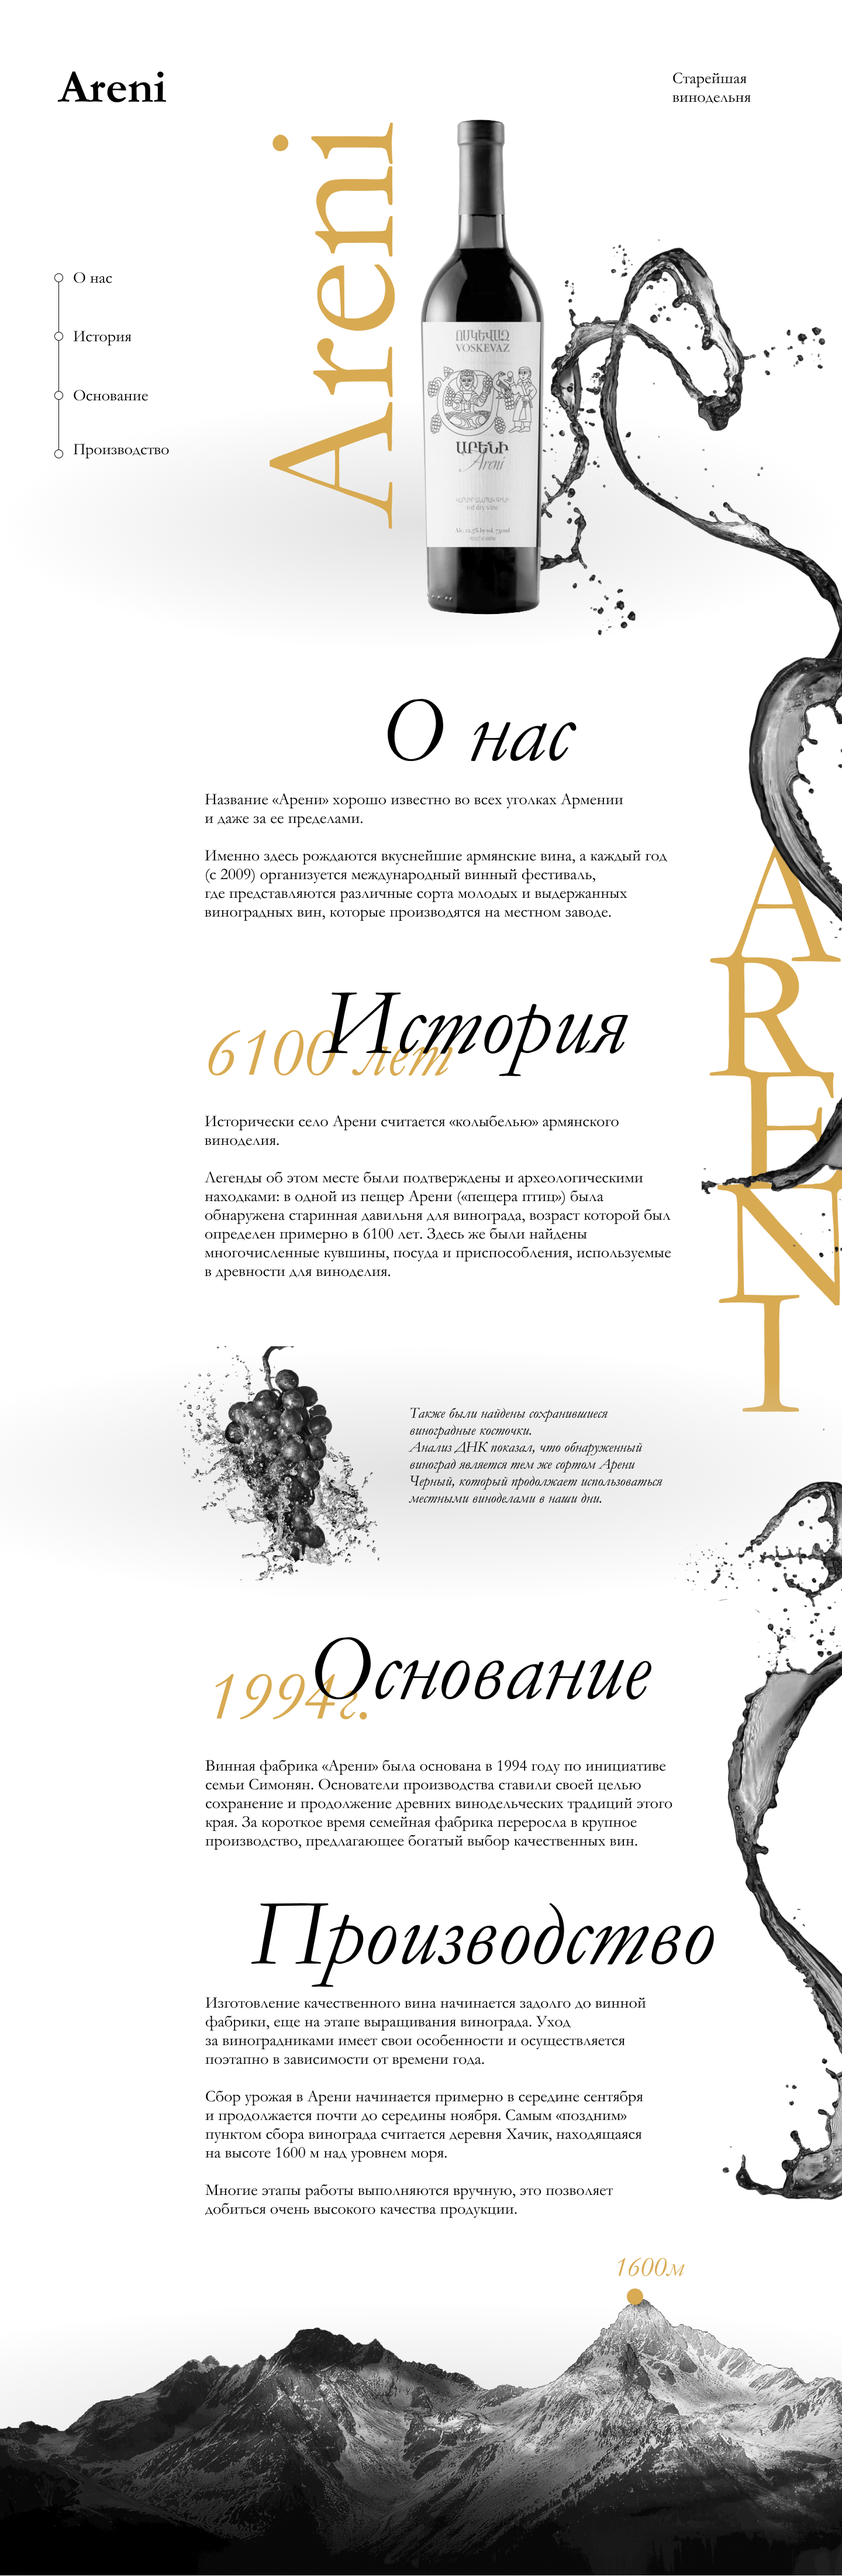
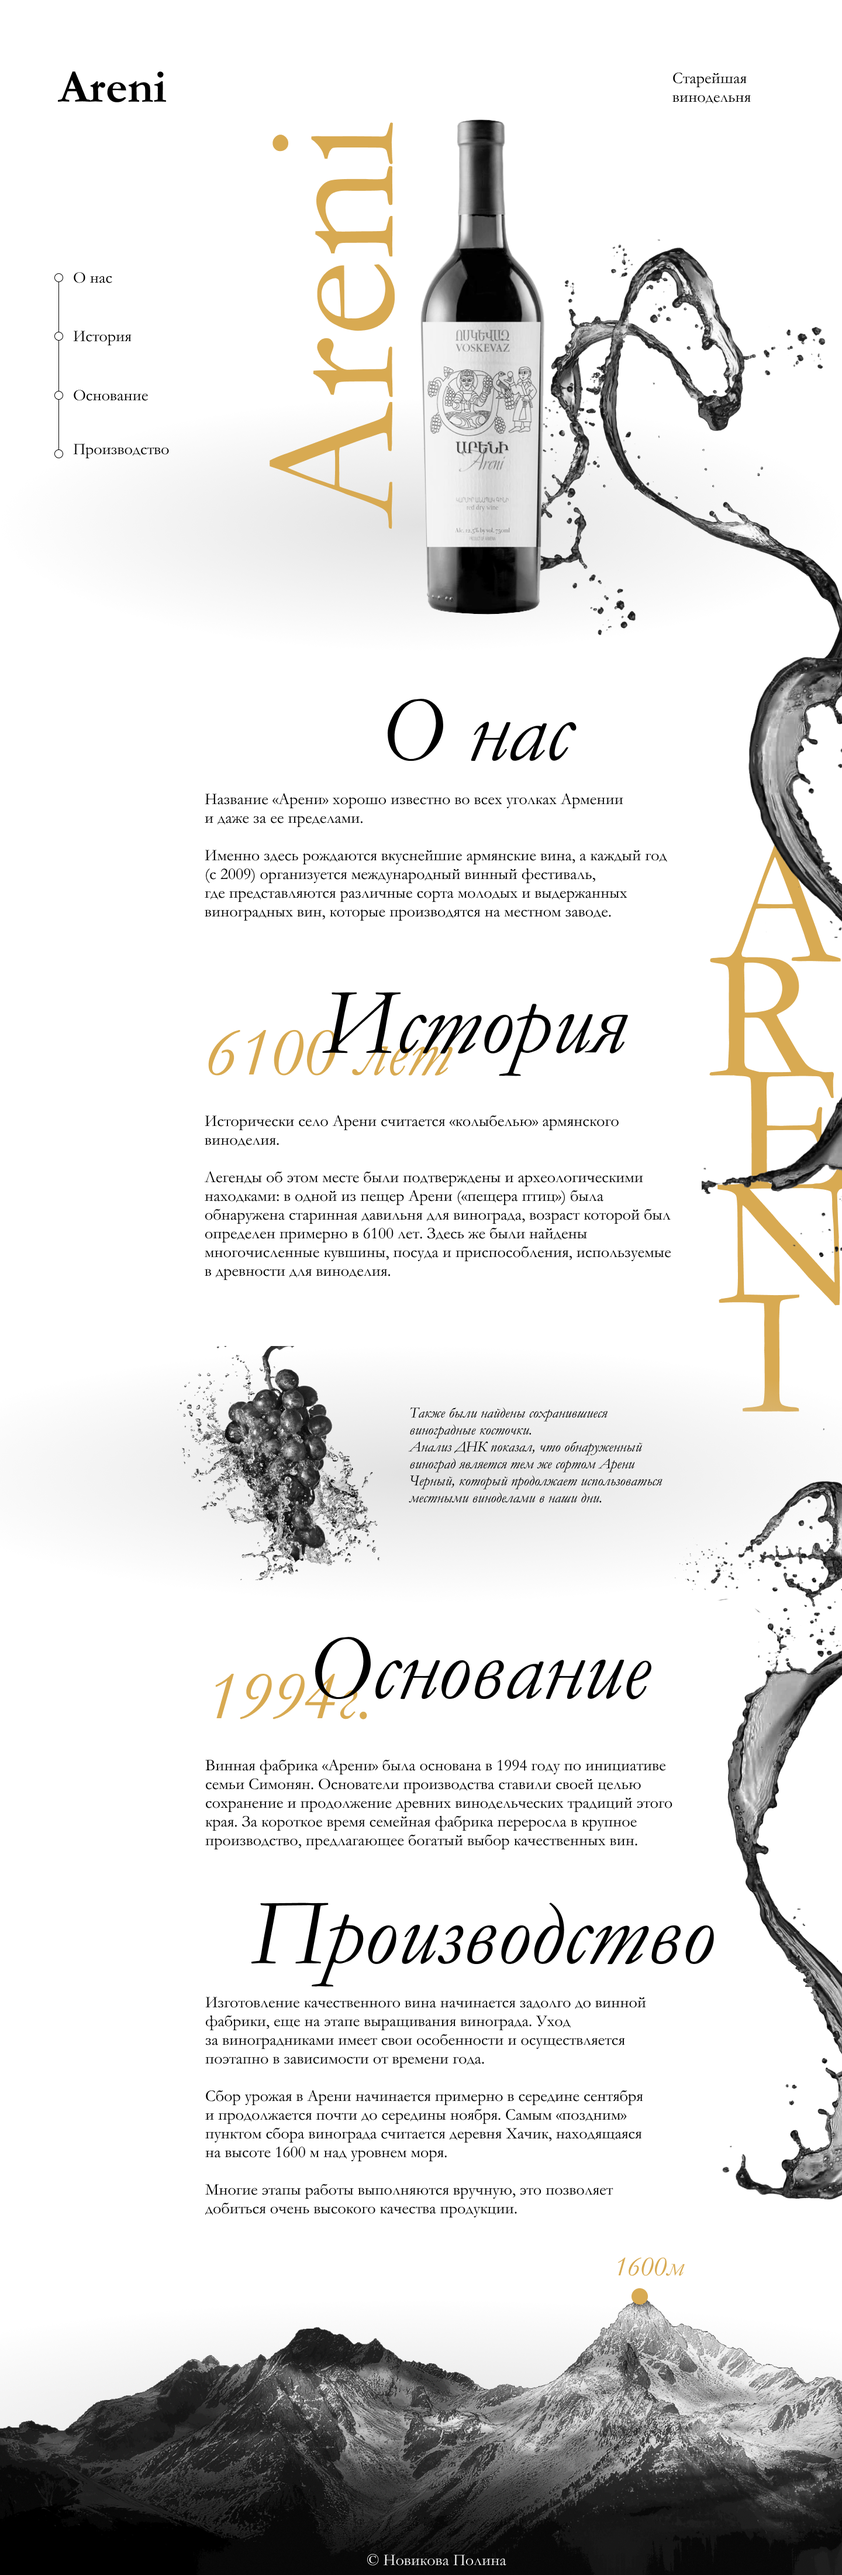
+

diff --git a/Areni.html b/Areni.html
@@ -21,19 +21,18 @@
     <style media="screen">
     body{
       width: 1440px;
-      height: 4388;
+      height: 4400;
       position: relative;
       margin: 0 auto;
     }
     body::before{
-      background: url(img/Areni.png);
+      background: url(img/fon.png);
       position: absolute;
       content: "";
       left: 0;
       top: 0;
       width: 100%;
       height: 100%;
-      opacity: .2;
     }
     </style>
 
@@ -48,12 +47,7 @@
     </div>
 
     <nav class="sidebar">
-      <div class="vl"></div>
-
-      <div class="ellipse1"></div>
-      <div class="ellipse2"></div>
-      <div class="ellipse3"></div>
-      <div class="ellipse4"></div>
+      <img src="img/vl.png" alt="">
 
       <ul class="nav1">
         <li><a href="#s1">О нас</a></li>
@@ -72,6 +66,7 @@
     <p>Именно здесь рождаются вкуснейшие армянские вина, а каждый год<br>(с 2009) организуется международный винный фестиваль,<br>где представляются различные сорта молодых и выдержанных виноградных вин, которые производятся на местном заводе.</p>
   </div>
 
+  <div class="note1">6100 лет</div>
   <h2 id="s2">История</h2>
   <div class="lay2">
     <p>Исторически село Арени считается «колыбелью» армянского виноделия.</p>
@@ -80,9 +75,10 @@
   </div>
 
   <div class="blockquote">
-    <blockquote>Также были найдены сохранившиеся виноградные косточки.<br>Анализ ДНК показал, что обнаруженный виноград является тем же сортом Арени Черный, который продолжает использоваться местными виноделами<br>в наши дни.</blockquote>
+    <blockquote>Также были найдены сохранившиеся виноградные косточки.<br>Анализ ДНК показал, что обнаруженный виноград является тем же сортом Арени Черный, который продолжает использоваться местными виноделами в наши дни.</blockquote>
   </div>
 
+  <div class="note2">1994г.</div>
   <h3 id="s3">Основание</h3>
   <div class="lay3">
     <p>Винная фабрика «Арени» была основана в 1994 году по инициативе семьи Симонян. Основатели производства ставили своей целью сохранение и продолжение древних винодельческих традиций этого края. За короткое время семейная фабрика переросла в крупное производство, предлагающее богатый выбор качественных вин.</p>
@@ -96,7 +92,12 @@
     <br>
     <p>Многие этапы работы выполняются вручную, это позволяет добиться очень высокого качества продукции. </p>
   </div>
+
+  <div class="note">1600м</div>
+  <div class="circle"></div>
   <img src="img/foot.png" alt="">
+  <div class="end">© Новикова Полина</div>
+
 </article>
 </body>
 </html>

diff --git a/css/sidebar.css b/css/sidebar.css
@@ -1,50 +1,29 @@
 nav{
-  display: block;
-  position: fixed;
   width: 200px;
   height: 343px;
-  left: 394px;
+  display: block;
+  position: fixed;
+  box-sizing: border-box;
+  left: 240px;
   top: 450px;
 }
 ul{
   text-decoration: none;
-  margin-left: 32px;
+  margin-left: 30px;
 }
 li{
   width: 175px;
   height: 50px;
   margin-bottom: 50px;
-  left: 125px;
+  left: 120px;
   font-size: 28px;
 }
 li:hover{
   color: #D8AA52;
   transition: all .1s ease-out;
 }
-.vl {
+nav img {
   position: absolute;
-  border-left: 1px solid black;
-  height: 343px;
-  margin-left: 7px;
-}
-.ellipse1, .ellipse2, .ellipse3, .ellipse4{
-  width: 15px;
-  height: 15px;
-  position: absolute;
-  display: flex;
   margin: 0;
-  margin-bottom: 85px;
-  background: black;
-  border-radius: 50%;
-}
-.ellipse1,.ellipse2, .ellipse3, .ellipse4::after {
-  width: 13px;
-  height: 13px;
-  display: block;
-  position: absolute;
-  left: 1px;
-  top:1px;
-  content: "";
-  background: white;
-  border-radius: 50%;
+  margin-top: 10px;
 }

diff --git a/css/content.css b/css/content.css
@@ -39,15 +39,15 @@ p {
   line-height: 31.5px;
   margin-bottom: 25px;
 }
-article img{
-  display: block;
-  width: 100%;
-  margin: 0 auto;
-  margin-top: 100px;
-}
 article div.circle{
   position: absolute;
   margin: 90px 0 0 1080px;
+}
+article img{
+  position: relative;
+  display: block;
+  width: 100%;
+  margin: 0 auto;
 }
 article div.note{
   position: absolute;
@@ -87,4 +87,15 @@ article div.note{
   color: #D8AA52;
   font-family: 'Garamond', serif;
   font-style: italic;
+}
+.end{
+  font-size: 28px;
+  font-family: 'Garamond', serif;
+  color: white;
+  position: relative;
+  text-align: center;
+  display: flex;
+  align-items: center;
+  justify-content: center;
+  bottom: 30px;
 }

diff --git a/css/menubar.css b/css/menubar.css
@@ -1,4 +1,5 @@
 .menubar {
+  position: relative;
   display: flex;
   justify-content: space-between;
   height: 190px;
